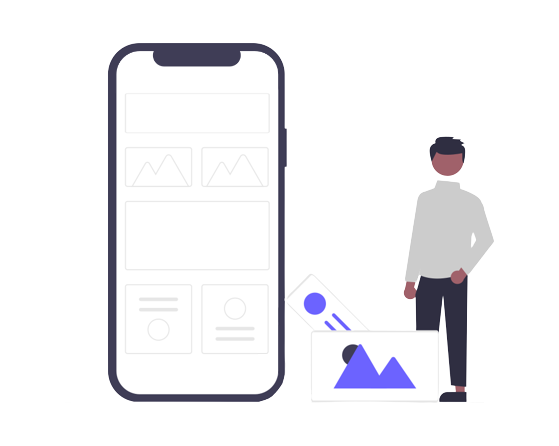
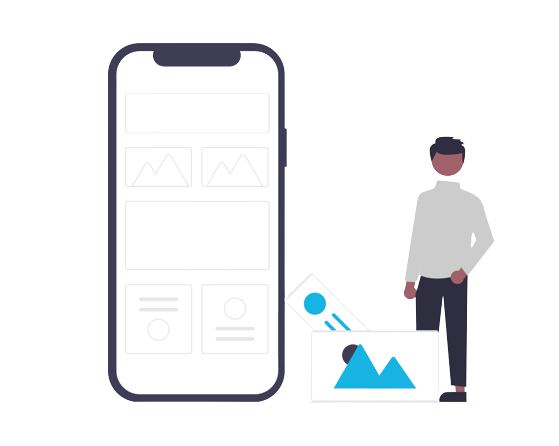
Fixed Images
I fixed the images to match the color scheme of the website.

Changed region(s): [[0.5778, 0.7578, 0.7603, 0.8744], [0.5474, 0.6413, 0.6386, 0.7578]]

diff --git a/index.html b/index.html
@@ -5,10 +5,10 @@
     <meta http-equiv="X-UA-Compatible" content="IE=edge">
     <meta name="viewport" content="width=device-width, initial-scale=1.0">
     <title>Typo Web Dev</title>
-    <link rel="icon" href="images\TWDicon.png">
-    <link rel="stylesheet" href="index.css">
+    <link rel="icon" href="images/TWDicon.png">
+    <link rel="stylesheet" href="/css/index.css">
     <script src="https://kit.fontawesome.com/95d3fa4963.js" crossorigin="anonymous"></script>
-    <script src="index.js" defer></script>
+    <script src="/js/index.js" defer></script>
     
 </head>
 <body>
@@ -52,7 +52,7 @@
             <a href="#" class="btn">Contact</a>
         </div>
         <div class="right">
-            <img src="images\clearbgright.png" alt="">
+            <img src="images/clearbgright.png" alt="">
         </div>
     </main>
     <div class="section1">
@@ -62,7 +62,7 @@
                 <p>Lorem ipsum dolor sit, amet consectetur adipisicing elit. Quos praesentium nobis id maiores vero dicta dolore magni debitis, aspernatur ad quisquam labore accusantium quis rem quaerat provident excepturi? Quod, explicabo provident! Eaque magnam quasi aspernatur nostrum, esse voluptates sint eligendi explicabo architecto corporis doloremque voluptate nesciunt amet, maxime voluptatibus porro fugiat minus eius provident, impedit quo? Corrupti, quae odio possimus obcaecati quidem sint modi sit fugit animi, nostrum mollitia! Accusamus repellat eveniet reprehenderit nulla, provident, illo corrupti exercitationem aspernatur, ratione impedit animi deleniti quod. Officiis soluta ad, ex reprehenderit est expedita. Libero, doloremque expedita? Dicta ipsam velit quia eum saepe neque aspernatur maxime, deleniti minima officia? Quas accusamus nemo sequi magni pariatur, amet nihil corporis itaque veniam dolor nisi alias repellat quisquam dolorem? Accusantium dicta praesentium in cum dolorum ipsum laborum error ad recusandae? Doloremque ipsum sequi ad qui, unde voluptates illum facere sunt quaerat inventore similique sint modi soluta labore quam cumque ullam perferendis voluptatum praesentium vel adipisci eos consequuntur corporis? Velit, labore quod error corporis ullam nesciunt ad tenetur vitae totam quia id dignissimos, quae iste cum beatae temporibus possimus molestias consequatur. Repellendus quasi dolorum soluta recusandae rerum itaque quae fugiat amet officia hic ad, consectetur voluptatem. Ad?</p>
             </div>
             <div class="phone-image">
-                <img src="images\phone-image.png" alt="">
+                <img src="images/phone-image.png" alt="">
             </div>
         </div>
     </div>
@@ -143,7 +143,7 @@
     <div class="all-services-container">
         <div class="all-services">
             <div class="service-a">
-                <h1>Custom Web Application Development</h1>
+                <h1>Front End Web Application Development</h1>
                 <p>Lorem ipsum dolor sit amet consectetur adipisicing elit. Reprehenderit accusamus laborum similique excepturi asperiores earum a cumque quod commodi, enim laboriosam soluta officia unde! Aut praesentium laboriosam vel cum, animi id tempora nesciunt accusantium fugit molestiae cupiditate necessitatibus, dolorem repudiandae temporibus eius. Vel est sequi, consectetur rem qui enim molestias.</p>
                 <a href="#" class="service-link">
                     <span class="span-txt">Learn more</span>
@@ -151,13 +151,13 @@
                 </a>
             </div>
             <div class="service-img-a">
-                <img src="images\clearbg1.png" alt="">
+                <img src="images/static-image.png" alt="">
             </div>
             <div class="service-img-b">
-                <img src="images\clearbg1.png" alt="">
+                <img src="images/backend-image.png" class="add-border" alt="">
             </div>
             <div class="service-b">
-                <h1>Custom Web Application Development</h1>
+                <h1>Back End Web Application Development</h1>
                 <p>Lorem ipsum dolor sit amet consectetur adipisicing elit. Reprehenderit accusamus laborum similique excepturi asperiores earum a cumque quod commodi, enim laboriosam soluta officia unde! Aut praesentium laboriosam vel cum, animi id tempora nesciunt accusantium fugit molestiae cupiditate necessitatibus, dolorem repudiandae temporibus eius. Vel est sequi, consectetur rem qui enim molestias.</p>
                 <a href="#" class="service-link">
                     <span class="span-txt">Learn more</span>
@@ -166,7 +166,7 @@
             </div>
             <!-- DELETE BELOW -->
             <div class="service-a">
-                <h1>Custom Web Application Development</h1>
+                <h1>Full Stack Web Application Development</h1>
                 <p>Lorem ipsum dolor sit amet consectetur adipisicing elit. Reprehenderit accusamus laborum similique excepturi asperiores earum a cumque quod commodi, enim laboriosam soluta officia unde! Aut praesentium laboriosam vel cum, animi id tempora nesciunt accusantium fugit molestiae cupiditate necessitatibus, dolorem repudiandae temporibus eius. Vel est sequi, consectetur rem qui enim molestias.</p>
                 <a href="#" class="service-link">
                     <span class="span-txt">Learn more</span>
@@ -174,13 +174,13 @@
                 </a>
             </div>
             <div class="service-img-a">
-                <img src="images\clearbg1.png" alt="">
+                <img src="images/fullstack-image.png" class="add-border" alt="">
             </div>
             <div class="service-img-b">
-                <img src="images\clearbg1.png" alt="">
+                <img src="images/email-image.png" class="add-border" alt="">
             </div>
             <div class="service-b">
-                <h1>Custom Web Application Development</h1>
+                <h1>Custom Email Templates</h1>
                 <p>Lorem ipsum dolor sit amet consectetur adipisicing elit. Reprehenderit accusamus laborum similique excepturi asperiores earum a cumque quod commodi, enim laboriosam soluta officia unde! Aut praesentium laboriosam vel cum, animi id tempora nesciunt accusantium fugit molestiae cupiditate necessitatibus, dolorem repudiandae temporibus eius. Vel est sequi, consectetur rem qui enim molestias.</p>
                 <a href="#" class="service-link">
                     <span class="span-txt">Learn more</span>
@@ -189,7 +189,7 @@
             </div>
             <!-- DELETE BELOW -->
             <div class="service-a">
-                <h1>Custom Web Application Development</h1>
+                <h1>UI and UX Design</h1>
                 <p>Lorem ipsum dolor sit amet consectetur adipisicing elit. Reprehenderit accusamus laborum similique excepturi asperiores earum a cumque quod commodi, enim laboriosam soluta officia unde! Aut praesentium laboriosam vel cum, animi id tempora nesciunt accusantium fugit molestiae cupiditate necessitatibus, dolorem repudiandae temporibus eius. Vel est sequi, consectetur rem qui enim molestias.</p>
                 <a href="#" class="service-link">
                     <span class="span-txt">Learn more</span>
@@ -197,13 +197,13 @@
                 </a>
             </div>
             <div class="service-img-a">
-                <img src="images\clearbg1.png" alt="">
+                <img src="images/mobileUI-image.png" class="add-border" alt="">
             </div>
             <div class="service-img-b">
-                <img src="images\clearbg1.png" alt="">
+                <img src="images/SEO-image.png" class="add-border" alt="">
             </div>
             <div class="service-b">
-                <h1>Custom Web Application Development</h1>
+                <h1>Website SEO</h1>
                 <p>Lorem ipsum dolor sit amet consectetur adipisicing elit. Reprehenderit accusamus laborum similique excepturi asperiores earum a cumque quod commodi, enim laboriosam soluta officia unde! Aut praesentium laboriosam vel cum, animi id tempora nesciunt accusantium fugit molestiae cupiditate necessitatibus, dolorem repudiandae temporibus eius. Vel est sequi, consectetur rem qui enim molestias.</p>
                 <a href="#" class="service-link">
                     <span class="span-txt">Learn more</span>
@@ -222,7 +222,7 @@
                 <input type="text" placeholder="Last Name">
                 <input type="email" placeholder="Email">
                 <input type="text" placeholder="Company Name">
-                <textarea class="textBox" name="message" id="" cols="30" rows="10" placeholder="Message"></textarea>
+                <textarea class="textBox" name="message" cols="30" rows="10" placeholder="Message"></textarea>
                 <button>Submit</button>
             </form>
         </div>
@@ -238,6 +238,7 @@
                     <li><a href="#">Solution</a></li>
                     <li><a href="#">Industries</a></li>
                     <li><a href="#">Projects</a></li>
+                    <li><a href="#">Contact</a></li>
                 </ul>
             </div>
             <div class="list">
@@ -246,9 +247,9 @@
                     <li><a href="#">Front End Website</a></li>
                     <li><a href="#">Back End Website</a></li>
                     <li><a href="#">Full Stack Website</a></li>
-                    <li><a href="#">UI Design</a></li>
-                    <li><a href="#">UX Design</a></li>
-                    <li><a href="#">Projects</a></li>
+                    <li><a href="#">Email Template Design</a></li>
+                    <li><a href="#">UX/UX Design</a></li>
+                    <li><a href="#">Website SEO</a></li>
                 </ul>
             </div>
             <div class="list">
@@ -262,7 +263,7 @@
             <div class="list">
                 <h2>Follow Us</h2>
                 <ul>
-                    <li><a href="#"><i class="fa-brands fa-instagram"></i> Instagram</a></li>
+                    <li><a href="https://www.instagram.com/typowebdev/" target="_blank"><i class="fa-brands fa-instagram"></i> Instagram</a></li>
                     <li><a href="#"><i class="fa-brands fa-facebook"></i> Facebook</a></li>
                     <li><a href="#"><i class="fa-brands fa-linkedin"></i> LinkedIn</a></li>
                     <li><a href="#"><i class="fa-brands fa-tiktok"></i> TikTok</a></li>

diff --git a/css/index.css b/css/index.css
@@ -396,6 +396,10 @@ main {
     width: 100%;
 }
 
+.add-border {
+    border-radius: 10px;
+}
+
 .service-link {
     display: block;
     color: #354A54;
